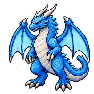
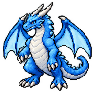
Keep same screen-right arm throughout dragon claw animation

diff --git a/design/enemies/dragon_frost/attack_claw/PROMPT.md b/design/enemies/dragon_frost/attack_claw/PROMPT.md
@@ -1,1 +1,1 @@
-Built-in image_gen. Base: ../attack/dragon_frost_1.png. Generate entire coherent ten-frame5x2 transparent sprite sheet of same blue frost dragon, small blue eyes and original detailed pixel-art. Frame1 normal,2 raising,3 raising,4 highest raising,5 downstroke begins,6 downstroke across chest,7 lowest downstroke,8 return early,9 return middle,10 return late near normal. Both forearms visible throughout, including frame7 continuous shoulder-elbow-wrist-claws. Whole character regenerated to match original reference face and proportions; front forearm attacks; grounded hindfeet, stable wings and tail. No fire, weapons, slash effects or pasted body parts. Export ten94x94 transparent PNGs in numeric order. Correction: planted feet baseline y91 in every frame, stable hips and head, original narrow blue-eyed face, frame10 is distinct late recovery, frame1 completes return. Preview frame delays(ms): 180,120,120,140,80,80,80,120,120,120.
+Built-in image_gen. Base: ../attack/dragon_frost_1.png. Generate entire coherent ten-frame5x2 transparent sprite sheet of same blue frost dragon, small blue eyes and original detailed pixel-art. Frame1 normal,2 raising,3 raising,4 highest raising,5 downstroke begins,6 downstroke across chest,7 lowest downstroke,8 return early,9 return middle,10 return late near normal. Both forearms visible throughout, including frame7 continuous shoulder-elbow-wrist-claws. Whole character regenerated to match original reference face and proportions; SCREEN-RIGHT forearm attacks in every frame, remains on screen-right of belly; SCREEN-LEFT forearm remains idle and visible in every frame. No arm switching; grounded hindfeet, stable wings and tail. No fire, weapons, slash effects or pasted body parts. Export ten94x94 transparent PNGs in numeric order. Correction: planted feet baseline y91 in every frame, stable hips and head, original narrow blue-eyed face, frame10 is distinct late recovery, frame1 completes return. Preview frame delays(ms): 180,120,120,140,80,80,80,120,120,120.
